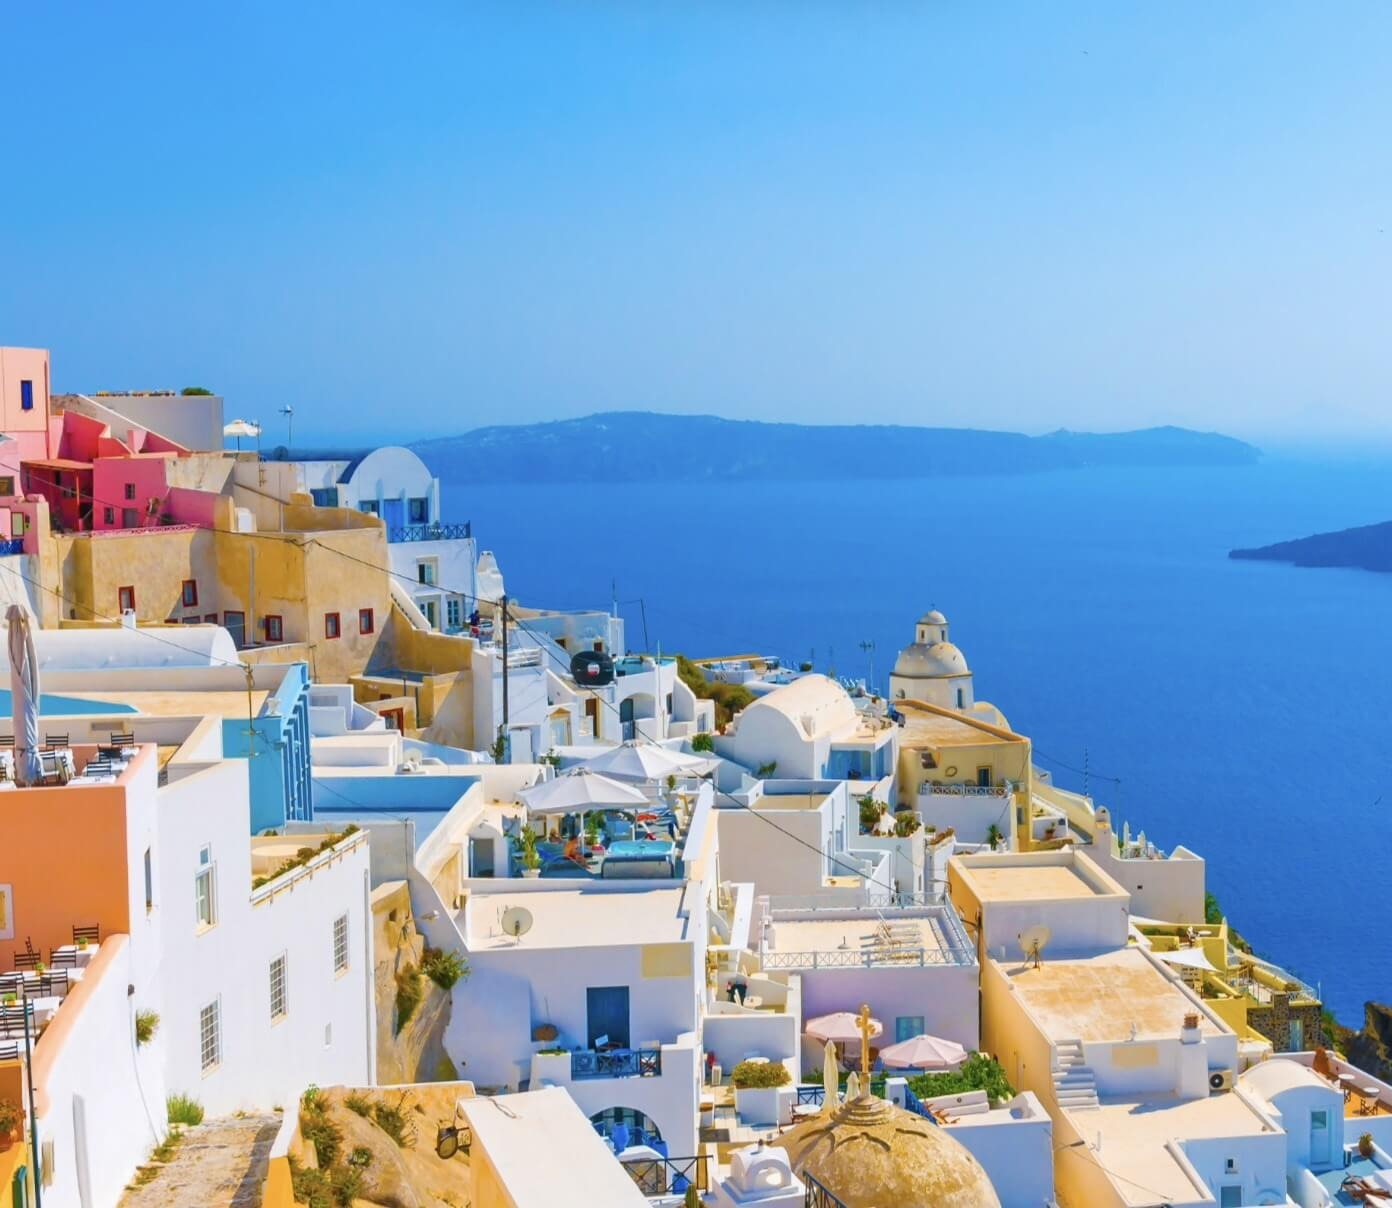
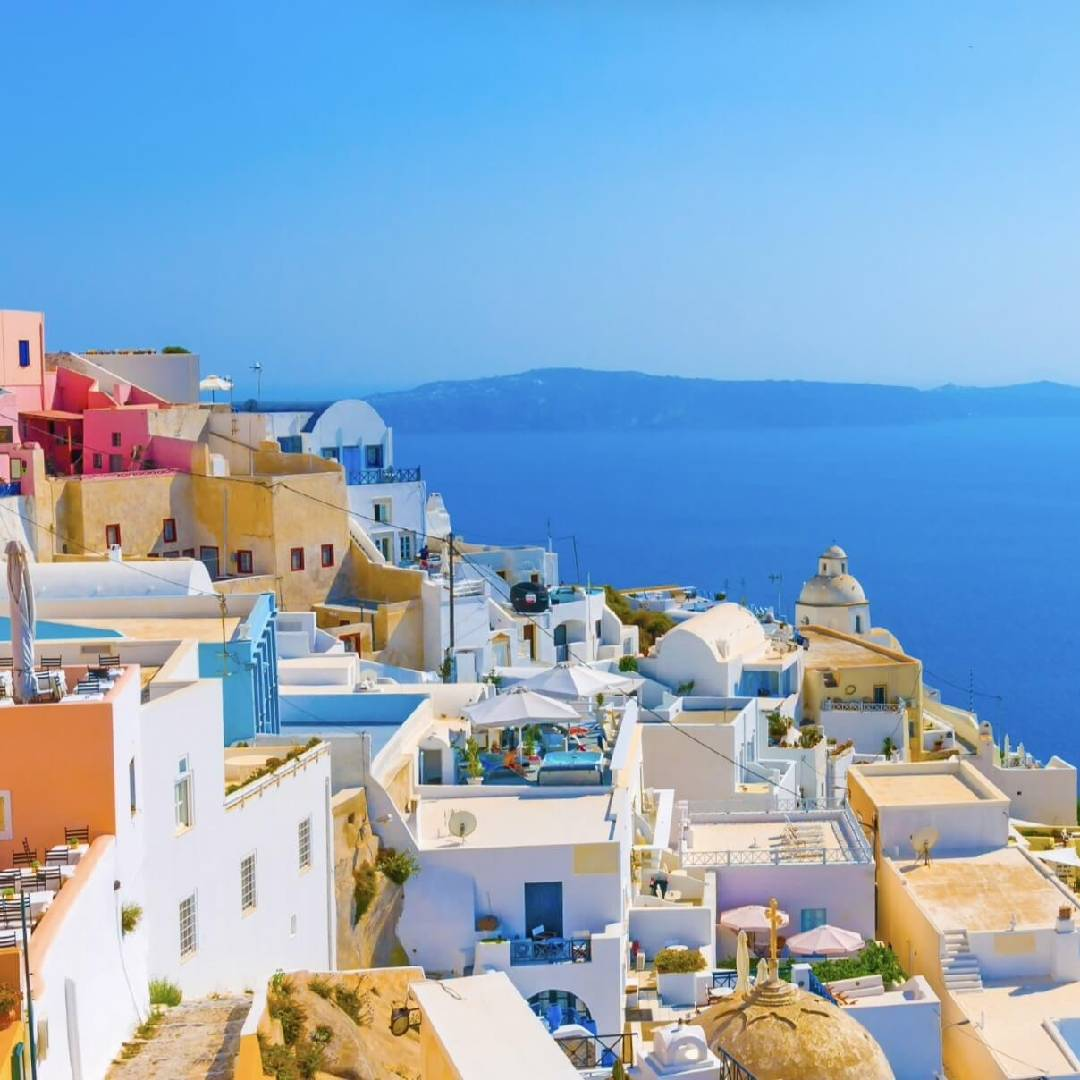
mis a jour et debut du frontend

diff --git a/frontend/src/components/Login.jsx b/frontend/src/components/Login.jsx
@@ -4,9 +4,8 @@ function Login(){
         <div className="row">
             
             <div className="col-6">
-                <img src="src/assets/Image_Login.png" alt="Image de lieu"></img>
-            </div>
-                
+                <img src="src/assets/img_login.jpg" alt="Image de lieu"></img>
+            </div>   
             <div className="col-6">
                 
             </div>

diff --git a/frontend/src/App.jsx b/frontend/src/App.jsx
@@ -1,14 +1,15 @@
 import PageAccueil from "./pages/PageAccueil";
 import RegisterPage from "./pages/RegisterPage";
+import LoginPage from "./pages/LoginPage";
 
 
-function App() {
-  return <PageAccueil />;
-}
-
-//function App(){
-//  return <LoginPage />;
+//function App() {
+ // return <PageAccueil />;
 //}
+
+function App(){
+   return <LoginPage />;
+}
 
 //function App(){
 //  return <RegisterPage />;

diff --git a/frontend/src/pages/LoginPage.jsx b/frontend/src/pages/LoginPage.jsx
@@ -1,0 +1,14 @@
+import Login from "../components/Login";
+import SectionFooter from "../components/SectionFooter";
+
+import "../styles/styles.css";
+
+export default function LoginPage(){
+    return(
+        <div>
+            <Login/>
+            <SectionFooter/>
+        </div>
+        
+    );
+}
